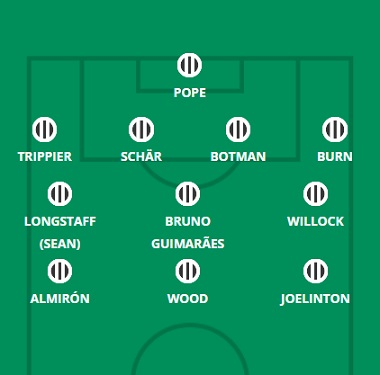
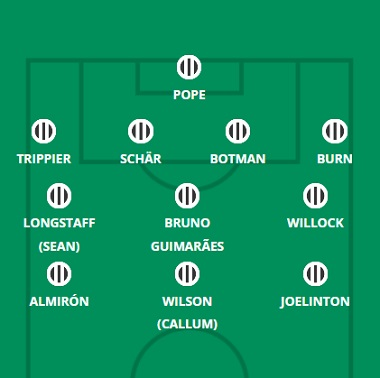
7/20

diff --git a/nforest.html b/nforest.html
@@ -63,15 +63,15 @@
     <hgroup>
         <h1> Provável Escalação</h1>
         <h2 class="direita"> por FabioVascão </h2>
-        <h3 class="direita"> Atualizado em 30/Novembro/2022 </h3>
+        <h3 class="direita"> Atualizado em 13/Janeiro/2023 </h3>
     </hgroup>
 
     <div class="selecao"><p><b><img src="images/logos/nforest.png" width="100rem" height="100rem"/> N. Forest</b></p></div>
        
     <div class="escalacao">
         <div class="topo">
-            <h2 class="titulo">Ultimas Notícias</h2> <h4><p> Jesse Lingard (coxa) é a mais nova lesão do Nottingham Forest, com Steve Cooper esperando para saber se o meio-campista estava apenas sofrendo de fadiga muscular na derrota para o Manchester United ou se sofreu algo mais sério. Morgan Gibbs-White (panturrilha) também ainda é uma dúvida significativa, enquanto Forest permanece sem ausências de longa data Omar Richards (perna), Giulian Biancone (ACL), Moussa Niakhate (coxa) e Cheikhou Kouyate (coxa) e o inelegível Gustavo Scarpa . Dean Henderson retornará para esta partida depois de perder o jogo contra o United, pelo menos, e pode haver mudanças pela frente, já que uma cesta de seis pontos contra o Southampton segue cerca de 72 horas após a visita do Chelsea ao City Ground. Neco Williams e Harry Toffolo podem ser contratados como laterais com a preservação de energia em mente ou mesmo como uma reação a uma má exibição defensiva em Old Trafford, enquanto Steve Cook e Scott McKenna são opções no meio-campo. Há menos escolha para Cooper em outro lugar, com Emmanuel Dennis em espera para se juntar ao ataque se Lingard e Gibbs-White perderem. Dado o envolvimento mínimo de Jack Colback em 2022/23, Lewis O'Brien também é a única alternativa adequada no meio-campo central se os corpos precisarem ser poupados para o St Mary's.</p></h4><br>
-            <h4><strong>Dúvidas:</strong> Biancone, Kouyaté, Niakhaté, Gibbs-White, Lingard e Richards (Omar).</h4>
+            <h2 class="titulo">Ultimas Notícias</h2> <h4><p> Omar Richards (perna), Giulian Biancone (ACL), Moussa Niakhate (coxa), Cheikhou Kouyate (coxa) e Jesse Lingard (coxa) definitivamente permanecem de fora, mas o Nottingham Forest estava em ação na copa apenas 12 horas antes de Steve Cooper entregar seu pré- Conferência de imprensa da Gameweek 20, então as atualizações sobre os outros jogadores sinalizados foram bastante vagas, pois a avaliação adequada não ocorreu. Willy Boly (tornozelo) saiu mancando da vitória da copa sobre o Wolverhampton Wanderers depois de inicialmente pular de uma maca para voltar à ação, enquanto Taiwo Awoniyi (fadiga muscular) e Neco Williams (lesão facial) perderam o jogo completamente. Cooper havia dito anteriormente que esperava ter Awoniyi de volta para este jogo, mas há mais preocupação com Boly, que havia se estabelecido entre os quatro defensores antes de sua lesão no meio da semana. Scott McKenna estará de prontidão para substituir o ex-jogador do Wolves, enquanto os três atacantes de quarta-feira de Brennan Johnson, Morgan Gibbs-White e Gustavo Scarpa podem continuar de qualquer maneira, mesmo que Awoniyi se recupere. Os quatro zagueiros e o meio-campo três permaneceram inalterados na liga desde o reinício de dezembro, à medida que a forma de Forest ganha força, então jogadores como Harry Toffolo, Lewis O'Brien, Sam Surridge, Emmanuel Dennis e Jack Colback devem estar aquecendo o banco uma vez novamente.</p></h4><br>
+            <h4><strong>Dúvidas:</strong> Biancone, Kouyaté, Niakhaté, Awoniyi, Boly, Neco Willians, Lingard e Richards (Omar).</h4>
         </div>
         <aside>
             <figure>

diff --git a/south.html b/south.html
@@ -63,15 +63,15 @@
     <hgroup>
         <h1> Provável Escalação</h1>
         <h2 class="direita"> por FabioVascão </h2>
-        <h3 class="direita"> Atualizado em 30/Novembro/2022 </h3>
+        <h3 class="direita"> Atualizado em 13/Janeiro/2023 </h3>
     </hgroup>
 
     <div class="selecao"><p><b><img src="images/logos/southampton.png" width="100rem" height="100rem"/> Southampton</b></p></div>
        
     <div class="escalacao">
         <div class="topo">
-            <h2 class="titulo">Ultimas Notícias</h2> <h4><p>Não houve muitas notícias da equipe na seção da Rodada 18 do presser de Nathan Jones no Boxing Day, mas ele sugeriu anteriormente que Romeo Lavia continuava sendo uma preocupação significativa, já que sua lenta recuperação de uma lesão no tendão da coxa continua. Alex McCarthy (tornozelo), Juan Larios (músculo), Tino Livramento (joelho) e Theo Walcott (gémeos) também estão na lista de grandes dúvidas, pelo que o novo treinador do Southampton poderá ter à sua disposição o mesmo grupo de jogadores para a deslocação a Fulham. Fixar Jones em um sistema favorito e pessoal preferido está se mostrando complicado, com mudanças táticas não apenas acontecendo entre as partidas, mas frequentemente durante elas. Tudo, desde um 3-5-2 a um 4-3-3 a um 4-4-2 ouros, foi testado pelo sucessor de Ralph Hasenhuttl, então a escalação prevista aqui deve ser tomada com uma pitada de sal. Moussa Djenepo e Ibrahima Diallo podem estar em risco após desistências no intervalo contra os Seagulls, com Stuart Armstrong a possibilidade de retornar depois que a doença limitou seu envolvimento na Rodada 17. Armel Bella-Kotchap também pode potencialmente recuperar seu lugar, com Jones dizendo o tempo do zagueiro fora de casa na Copa do Mundo o deixou sem ritmo antes do Boxing Day. Samuel Edozie arrancou elogios de seu chefe e o adolescente estará confiante em manter seu lugar, algo que Gavin Bazunu certamente não estará após seus recentes erros; A lesão de McCarthy pode apenas adiar a execução por enquanto.</p></h4><br>
-            <h4><strong>Dúvidas:</strong>  Livramento, Juan Larios, Lavia, McCarthy e Walcott.</h4>
+            <h2 class="titulo">Ultimas Notícias</h2> <h4><p>Stuart Armstrong (virilha), Armel Bella-Kotchap (joelho), Juan Larios (músculo) e Tino Livramento (joelho) ainda estão ausentes, mas Alex McCarthy (tornozelo) e Theo Walcott (panturrilha) podem retornar neste fim de semana, enquanto a nova contratação Charly Alcaraz também pode aparecer se os documentos de registro necessários forem arquivados a tempo. Romeo Lavia também parece ter escapado de uma lesão após sua paralisação de uma hora na quarta-feira, com Nathan Jones dizendo que sua substituição foi planejada para que ele pudesse jogar neste fim de semana. Alguns jogadores marginais não prejudicaram suas perspectivas de jogo com excelentes exibições contra o Manchester City no meio da semana, os artilheiros Moussa Djenepo e Sekou Mara sendo bons exemplos, já que Erling Haaland e companhia foram eliminados da Copa EFL. Não há garantias de que jogadores como Moi Elyounoussi, Samuel Edozie e Che Adams sejam trazidos de volta ao XI titular em Goodison Park, então, enquanto a surpreendente boa forma de Lyanco na lateral-direita significa que o caminho de Romain Perraud para a equipe pode ser novamente bloqueado pelo versátil Kyle Walker-Peters no flanco oposto.</p></h4><br>
+            <h4><strong>Dúvidas:</strong>  Livramento, Juan Larios, Armstron, Bella-Kotchap, McCarthy e Walcott.</h4>
         </div>
         <aside>
             <figure>

diff --git a/leicester.html b/leicester.html
@@ -63,15 +63,15 @@
     <hgroup>
         <h1> Provável Escalação</h1>
         <h2 class="direita"> por FabioVascão </h2>
-        <h3 class="direita"> Atualizado em 30/Novembro/2022 </h3>
+        <h3 class="direita"> Atualizado em 13/Janeiro/2023 </h3>
     </hgroup>
 
     <div class="selecao"><p><b><img src="images/logos/leicester.png" width="100rem" height="100rem"/> Leicester</b></p></div>
        
     <div class="escalacao">
         <div class="topo">
-            <h2 class="titulo">Ultimas Notícias</h2> <h4><p> James Maddison (joelho) não estará em ação tão cedo, enquanto seu substituto no flanco direito na derrota para o Newcastle United, Dennis Praet (costela/quadril/abdômen), também deve ficar de fora na sexta-feira. Enquanto isso, James Justin (Aquiles), Ryan Bertrand (joelho) e Ricardo Pereira (Aquiles) permanecem ausentes, e Jonny Evans (panturrilha) se juntou a eles recentemente na lista de lesionados. Existe a possibilidade de vermos Rodgers mudar de forma para esta viagem a Anfield, potencialmente usando o sistema de defesa lateral com o qual começou na derrota estreita para o Manchester City ou a configuração de diamante que os Foxes encerraram na 17ª semana de jogo. os favoritos Caglar Soyuncu e Wilfried Ndidi são opções como zagueiros adicionais, caso seja necessário, com Ndidi (ou Nampalys Mendy) também uma alternativa no centro do parque se Rodgers achar que o trabalho defensivo fora da bola é preferível a a progressão da bola de Boubakary Soumare. Ayoze Perez é o candidato de destaque para o dever de direita se um 4-3-3 for perseverado, mas ele e Harvey Barnes provavelmente farão pesos se o técnico optar por dois atacantes no topo. Jamie Vardy substituiu Patson Daka no intervalo contra o Newcastle, provocando uma melhora muito marginal, mas quem acertar aqui, o tempo de jogo parece destinado a ser compartilhado no ataque com outra partida após quatro dias após esta.</p></h4><br>
-            <h4><strong>Dúvidas:</strong> Ricardo Pereira, Bertrand, Justin, Evans, Praet e Maddison.</h4>
+            <h2 class="titulo">Ultimas Notícias</h2> <h4><p> James Maddison (joelho) e Kiernan Dewsbury-Hall (glúteo) permanecem afastados ao lado de Boubakary Soumare (coxa), James Justin (Aquiles), Ryan Bertrand (joelho), Ricardo Pereira (Aquiles) e Jonny Evans (panturrilha), enquanto Ayoze Perez ( knock) terá que ser avaliado depois que ele se machucou na derrota da copa no meio da semana para o Newcastle United. Dennis Praet (costela/quadril/abdômen) voltou a treinar, pelo menos, e pode voltar. A lista de sete lesionados e as dúvidas sobre Praet/Perez deixam um sitiado Brendan Rodgers com pouca força em profundidade, com quem estiver mais apto entre Perez e Praet potencialmente apenas se juntando aos mesmos outros 10 titulares que foram derrotados em Newcastle. Nampalys Mendy é uma alternativa no meio do parque e Caglar Soyuncu dá a Rodgers a opção de jogar três na defesa, enquanto pelo menos o chefe do Leicester tem um dilema de seleção bem-vindo com Jamie Vardy, Patson Daka e o menos usado Kelechi Iheanacho todas as possibilidades. Os novatos Lewis Brunt, Kasey McAteer e Sammy Braybrooke estavam ocupando o banco na EFL Cup, tal é a luta do Leicester por pessoal no momento.</p></h4><br>
+            <h4><strong>Dúvidas:</strong> Ricardo Pereira, Bertrand, Dewsbury-Hall, Evans, Justin, Maddison, Soumaré, Pérez e Praet.</h4>
         </div>
         <aside>
             <figure>

diff --git a/leeds.html b/leeds.html
@@ -63,15 +63,15 @@
     <hgroup>
         <h1> Provável Escalação</h1>
         <h2 class="direita"> por FabioVascão </h2>
-        <h3 class="direita"> Atualizado em 30/Novembro/2022 </h3>
+        <h3 class="direita"> Atualizado em 13/Janeiro/2023 </h3>
     </hgroup>
 
     <div class="selecao"><p><b><img src="images/logos/leeds.png" width="100rem" height="100rem"/> Leeds</b></p></div>
        
     <div class="escalacao">
         <div class="topo">
-            <h2 class="titulo">Ultimas Notícias</h2> <h4><p> Stuart Dallas (joelho), Archie Gray (tornozelo) e Luis Sinisterra (pé) ainda estão lesionados e Patrick Bamford (quadril/virilha) não retornará aos treinos completos da equipe até a próxima semana, mas Tyler Adams está pelo menos de volta da suspensão depois de perder fora na quarta-feira. O Leeds foi derrotado com a reviravolta mais rápida entre as partidas nas semanas de jogo 17-18, então o período de recuperação de 65 horas pode levar a uma renovação do XI titular. Marsch, de fato, fez seis mudanças em sua escalação na última vez em que encontrou uma reviravolta de menos de três dias completos, então poderíamos ter uma carnificina na ficha de equipe em Tyneside. Crysencio Summerville e Jack Harrison podem voltar aos flancos às custas de dois dos três atacantes que iniciaram o jogo contra o City (Rodrigo, Brenden Aaronson e Willy Gnonto), com Joe Gelhardt também como opção no topo. Mateusz Klich e o retorno de Adams são alternativas descansadas na sala de máquinas, enquanto Luke Ayling, Junior Firpo e Diego Llorente são todas as possibilidades de atuar na defesa, tendo feito isso na já mencionada partida dupla da Rodada 12-13.</p></h4><br>
-            <h4><strong>Dúvidas:</strong> Dallas, Gray (Archie), Sinisterra e Bamford.</h4>
+            <h2 class="titulo">Ultimas Notícias</h2> <h4><p> Stuart Dallas (joelho), Archie Gray (tornozelo) e Luis Sinisterra (pé) continuam indisponíveis e Crysencio Summerville juntou-se a eles nos bastidores, com um problema no tornozelo que o manterá afastado durante um mês. Patrick Bamford (quadril/virilha) está disponível novamente, enquanto Adam Forshaw (quadril) deve voltar a treinar nesta semana após um pequeno procedimento no Ano Novo. O versátil Max Wober estará pressionando para começar, com a nova contratação do RB Salzburg impressionando no meio-campo na FA Cup no fim de semana passado, mas mais em casa como lateral-esquerdo ou meio-campo. Com aquela participação especial de meia hora sendo sua primeira ação competitiva desde novembro, no entanto, ele pode ser gradualmente substituído. Cody Drameh parece estar lutando a três pela vaga de lateral-direito com Luke Ayling e Rasmus Kristensen, enquanto Jack O impacto de Harrison fora do banco na Gameweek 19 certamente o coloca em uma boa posição para ocupar o lugar de Summerville. Illan Meslier, Tyler Adams, Rodrigo, Robin Koch e Willy Gnonto são provavelmente os únicos nomes que podemos dizer com confiança que provavelmente começarão em suas respectivas posições, com até mesmo regulares como Marc Roca e Brenden Aaronson em risco após uma péssima forma desde o reiniciar.</p></h4><br>
+            <h4><strong>Dúvidas:</strong> Dallas, Gray (Archie), Sinisterra, Summerville e Forshaw.</h4>
         </div>
         <aside>
             <figure>

diff --git a/aston.html b/aston.html
@@ -63,15 +63,15 @@
     <hgroup>
         <h1> Provável Escalação</h1>
         <h2 class="direita"> por FabioVascão </h2>
-        <h3 class="direita"> Atualizado em 30/Novembro/2022 </h3>
+        <h3 class="direita"> Atualizado em 13/Janeiro/2023 </h3>
     </hgroup>
 
     <div class="selecao"><p><b><img src="images/logos/aston-villa.png" width="100rem" height="100rem"/> Aston Villa</b></p></div>
        
     <div class="escalacao">
         <div class="topo">
-            <h2 class="titulo">Ultimas Notícias</h2> <h4><p> Diego Carlos (Aquiles) e Jacob Ramsey (coxa) ainda estão afastados, mas Emiliano Martinez deve retornar ao time titular após sua pausa pós-Copa do Mundo, enquanto outro jogador no Catar, Matty Cash, espera substituir Ashley Young como lateral-direito após um banco da Rodada 17. Com Ramsey fora e Philippe Coutinho aquém do jogo, John McGinn e Emi Buendia esperam manter seus lugares para a viagem a Londres. Há um pouco menos de certeza no topo, no entanto, com Danny Ings batendo na porta de seu gerente depois de uma noite desperdiçada na frente do gol de Leon Bailey contra o Liverpool. O que Bailey oferece em abundância é ritmo e pressão na frente, algo que Ings pode ter dificuldade em fazer por períodos prolongados contra um time que pode dominar a bola.</p></h4><br>
-            <h4><strong>Dúvidas:</strong> Diego Carlos e Ramsey.</h4>
+            <h2 class="titulo">Ultimas Notícias</h2> <h4><p> Diego Carlos (Aquiles) ficará de fora por mais um ou dois meses, enquanto este jogo também chegará muito cedo para John McGinn (tendão da coxa) e Ludwig Augustinsson (tornozelo). Matty Cash é uma nova dúvida com uma lesão na virilha contraída no jogo contra Stevenage, enquanto Leander Dendoncker está suspenso após seu cartão vermelho naquela partida. Quanto ao novo lateral-esquerdo Alex Moreno, o técnico Unai Emery disse que "não tinha certeza" se o espanhol teria autorização para jogar após sua transferência no meio da semana, mas tendo treinado apenas com seus novos companheiros um dia antes do jogo contra o Leeds, Lucas Digne pode ser uma suspensão da execução na lateral-esquerda independentemente. A ausência/possível ausência de McGinn e Cash priva Emery de duas opções que atuaram no flanco direito desde a retomada, mas agora ele tem as costas Philippe Coutinho e Jacob Ramsey, o último dos quais começou nessa posição na primeira partida de Emery em ataque contra o Manchester United. Danny Ings continua a jogar supersub, marcando novamente contra o Wolves, mas apesar da falta de confiança de Leon Bailey na frente do gol (ele foi às lágrimas após uma falha tardia na Rodada 19), Emery parece valorizar os outros atributos do jamaicano no ataque e tem persistiu com o lateral. O resto do time parece bastante resolvido no momento, com o excesso de lesões e saídas iminentes (Morgan Sanson parece estar se juntando a Augustinsson para sair pela porta), deixando Emery com pouco mais de reserva.</p></h4><br>
+            <h4><strong>Dúvidas:</strong> McGinn, Diego Carlos, Augustinsson, Cash e Dendonker.</h4>
         </div>
         <aside>
             <figure>

diff --git a/newcastle.html b/newcastle.html
@@ -63,15 +63,15 @@
     <hgroup>
         <h1> Provável Escalação</h1>
         <h2 class="direita"> por FabioVascão </h2>
-        <h3 class="direita"> Atualizado em 30/Novembro/2022 </h3>
+        <h3 class="direita"> Atualizado em 13/Janeiro/2023 </h3>
     </hgroup>
 
     <div class="selecao"><p><b><img src="images/logos/newcastle-united.png" width="100rem" height="100rem"/> Newcastle</b></p></div>
        
     <div class="escalacao">
         <div class="topo">
-            <h2 class="titulo">Ultimas Notícias</h2> <h4><p> Eddie Howe confirmou que Alexander Isak (coxa), Jonjo Shelvey (panturrilha) e Emil Krafth (joelho) permanecem afastados, mas a grande notícia que queríamos do chefe do Newcastle dizia respeito a Callum Wilson (doença), sobre quem Howe deu as atualizações mais breves. O técnico dos Magpies disse que Wilson havia "melhorado" e treinado no dia anterior, acrescentando que estava "em um lugar melhor" - mas não se pronunciou sobre se o internacional da Inglaterra seria capaz de começar ou até mesmo ir para o banco contra Leeds. O dinheiro inteligente provavelmente estaria em um começo de Chris Wood e uma participação especial de Wilson no segundo tempo, especialmente com o jogo do Arsenal chegando. Howe fez apenas uma alteração em seus XIs iniciais na última vez em que enfrentou uma semana de três jogos na Premier League, portanto, com os Magpies em alta e tendo 48 horas extras de recuperação em comparação com seus oponentes, não haverá um tonelada de mudanças (se houver) na véspera de Ano Novo. Ryan Fraser, Jacob Murphy e Allan Saint-Maximin são alternativas no flanco se os minutos precisam ser administrados, com Matt Targett também fresco na lateral-esquerda, mas Howe pode procurar fazer mudanças no jogo em vez de interromper uma fórmula vencedora de começo.</p></h4><br>
-            <h4><strong>Dúvidas:</strong> Dummett, Krafth, Shelvey, Wilson e Isak.</h4>
+            <h2 class="titulo">Ultimas Notícias</h2> <h4><p> Matt Targett (calcanhar), Jonjo Shelvey (panturrilha) e Emil Krafth (joelho) são os únicos jogadores na lista de lesionados do Newcastle antes da visita ao Fulham, com Alexander Isak voltando de lesão nas duas partidas da copa doméstica na última semana. Dada a longa ausência do sueco, no entanto, parece que só o veremos aparecer como substituto no curto prazo, com Eddie Howe prometendo "ter muito cuidado com ele" depois de meses afastado. Com toda a probabilidade, veremos a mesma escalação de aparência familiar que eliminou confortavelmente o Leicester City no meio da semana, e é um lado que permaneceu inalterado nas últimas sete semanas de jogos, exceto pelas ausências forçadas de Joelinton e Callum Wilson. Chris Wood, Jamaal Lascelles, Jacob Murphy e Allan Saint-Maximin estarão entre os que jogarão em segundo lugar no banco, a menos que alguma lesão tardia aconteça aos regulares.</p></h4><br>
+            <h4><strong>Dúvidas:</strong> Krafth, Shelvey e Targett.</h4>
         </div>
         <aside>
             <figure>

diff --git a/fulham.html b/fulham.html
@@ -63,15 +63,15 @@
     <hgroup>
         <h1> Provável Escalação</h1>
         <h2 class="direita"> por FabioVascão </h2>
-        <h3 class="direita"> Atualizado em 30/Novembro/2022 </h3>
+        <h3 class="direita"> Atualizado em 13/Janeiro/2023 </h3>
     </hgroup>
 
     <div class="selecao"><p><b><img src="images/logos/fulham.png" width="80rem" height="90rem"/> Fulham</b></p></div>
        
     <div class="escalacao">
         <div class="topo">
-            <h2 class="titulo">Ultimas Notícias</h2> <h4><p> Neeskens Kebano (Aquiles), Layvin Kurzawa (condição física) e Manor Solomon (condição física) permanecem de fora, mas não houve novas preocupações reveladas na prensa de Marco Silva. Os Cottagers têm duas partidas em pouco mais de 72 horas para negociar, mas com uma pausa de cinco dias após o Boxing Day, uma partida em que os níveis de energia foram preservados contra os nove homens do Crystal Palace, as mudanças devem ser mínimas aqui. Oito jogadores do Fulham foram titulares sempre presentes, de fato, a última vez que encontramos uma semana de três jogos, com mudanças nos flancos a área de risco de rotação mais notável. E há muita competição nas laterais com os até agora nada impressionantes Dan James e Harry Wilson disponíveis para seleção, com o veterano Willian alguém que poderia ver os minutos administrados de uma forma ou de outra no Ano Novo. Tosin Adarabioyo também pode jogar no meio-campo se Issa Diop for considerado incapaz de fazer três partidas em pouco mais de uma semana. Quanto a Aleksandar Mitrovic, Silva disse que o grande sérvio "não está 100% apto", mas acrescentou que está "pronto para começar" novamente contra o Santos.</p></h4><br>
-            <h4><strong>Dúvidas:</strong> Kebano, Kurzawa e Solomon. </h4>
+            <h2 class="titulo">Ultimas Notícias</h2> <h4><p> Neeskens Kebano (Aquiles) continua fora e Shane Duffy está em dúvida por causa da doença, enquanto está um em, um fora na frente de suspensão: Aleksandar Mitrovic retorna de uma partida, mas Antonee Robinson agora tem que cumprir sua própria suspensão após pegando uma quinta reserva da campanha na quinta-feira.</p></h4><br>
+            <h4><strong>Dúvidas:</strong> Kebano, Duffy e Robinson. </h4>
         </div>
         <aside>
             <figure>

diff --git a/index.html b/index.html
@@ -34,18 +34,18 @@
   <main>
     <div class="principal">
       <hgroup>
-        <h1> Escalação da 18° Rodada do Fantasy da Premier League </h1>
+        <h1> Escalação da 20° Rodada do Fantasy da Premier League </h1>
         <h2> por FabioVascão </h2>
-        <h3> Atualizado em 30/Dezembro/2022 </h3>
+        <h3> Atualizado em 13/Janeiro/2023 </h3>
       </hgroup>
-        <h2 class="titulo">  18° Rodada da Premier League - Time do Canal </h2>       
-        <img src="images/fixos/time18rodada.jpg" alt="Escalação da 18° Rodada do Fantasy da Premier League"/>   
-        <h4><p><strong>Escalação:</strong> Bazunu, Trippier, Coufal, Akanji, Salah(VC), KDB, Almirón, Bailey, Wilson, Kane e Halland(C).</p></h4><br>
-        <h4><p><strong>Banco:</strong> Ward, Andreas, Neco Williams e Tomkins.</p></h4><br>
+        <h2 class="titulo">  20° Rodada da Premier League - Time do Canal </h2>       
+        <img src="images/fixos/time20rodada.jpg" alt="Escalação da 20° Rodada do Fantasy da Premier League"/>   
+        <h4><p><strong>Escalação:</strong> Bazunu, Trippier, Bissaka, Akanji, Tomkins, Salah, KDB, Almirón, Wilson, Kane e Halland(C).</p></h4><br>
+        <h4><p><strong>Banco:</strong> Ward, Neco Williams, Andreas e Reed.</p></h4><br>
         
-        <h2 class="titulo"> Dicas para 18° Rodada </h2>  
+        <h2 class="titulo"> Dicas para 20° Rodada </h2>  
         <div class="video"> 
-          <iframe width="95%" height="315" src="https://www.youtube.com/embed/x18RtJKKqvY" title="YouTube video player" frameborder="0" allow="accelerometer; autoplay; clipboard-write; encrypted-media; gyroscope; picture-in-picture" allowfullscreen></iframe>
+          <iframe width="95%" height="315" src="https://www.youtube.com/embed/3MceUqpqBYM" title="YouTube video player" frameborder="0" allow="accelerometer; autoplay; clipboard-write; encrypted-media; gyroscope; picture-in-picture; web-share" allowfullscreen></iframe>
         </div>
     </div>
     <div class="lateral">

diff --git a/noticias.html b/noticias.html
@@ -34,6 +34,16 @@
   <main>
     <div class="principal">
       <hgroup>
+        <h1> Escalação da 20° Rodada do Fantasy da Premier League </h1>
+        <h2> por FabioVascão </h2>
+        <h3> Atualizado em 13/Janeiro/2023 </h3>
+      </hgroup>
+        <h2 class="titulo">  20° Rodada da Premier League - Time do Canal </h2>       
+        <img src="images/fixos/time20rodada.jpg" alt="Escalação da 20° Rodada do Fantasy da Premier League"/>   
+        <h4><p><strong>Escalação:</strong> Bazunu, Trippier, Bissaka, Akanji, Tomkins, Salah, KDB, Almirón, Wilson, Kane e Halland(C).</p></h4><br>
+        <h4><p><strong>Banco:</strong> Ward, Neco Williams, Andreas e Reed.</p></h4><br>
+
+      <hgroup>
         <h1> Escalação da 18° Rodada do Fantasy da Premier League </h1>
         <h2> por FabioVascão </h2>
         <h3> Atualizado em 30/Dezembro/2022 </h3>

diff --git a/proximosjogos.html b/proximosjogos.html
@@ -36,7 +36,7 @@
         <hgroup>
             <h1> Tabela de Auxílio do Fantasy da Premier League </h1>
             <h2> por FabioVascão </h2>
-            <h3> Atualizado em 21/Dezembro/2022 </h3>
+            <h3> Atualizado em 13/Janeiro/2023</h3>
         </hgroup>
             <h2 class="titulo">  Bem Vindo a Nossa Tabela de Auxílio do Fantasy da Premier League </h2>       
             <img src="images/fixos/proximosjogos.jpg" alt="Jogos da Premier League"/>   
